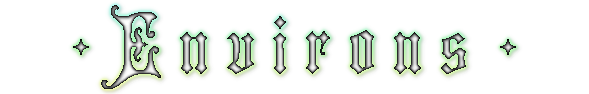
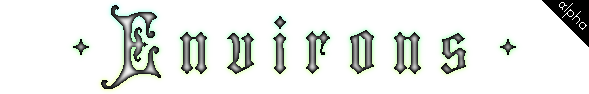
Alpha1

diff --git a/src/main/java/com/environs/listeners/RenderGuiOverlayEventListener.java b/src/main/java/com/environs/listeners/RenderGuiOverlayEventListener.java
@@ -79,7 +79,7 @@ public final class RenderGuiOverlayEventListener {
 				event.getGuiGraphics().pose().pushPose();
 				Matrix4f matrix4f = event.getGuiGraphics().pose().last().pose();
 				matrix4f.scale(2.5F, 2.5F, 2.5F);
-				minecraft.font.drawInBatch(ChatFormatting.UNDERLINE + dimensionName, dimensionNamePosX, dimensionNamePosY, EnvironsConfigClient.DIMENSION_COLOR.get() | (int) (dimensionAlpha * 255.0F) << 24, true, matrix4f, irendertypebuffer$impl, Font.DisplayMode.SEE_THROUGH, 0, 0);
+				minecraft.font.drawInBatch(EnvironsConfigClient.UNDERLINE.get() ? ChatFormatting.UNDERLINE + dimensionName : dimensionName, dimensionNamePosX, dimensionNamePosY, EnvironsConfigClient.DIMENSION_COLOR.get() | (int) (dimensionAlpha * 255.0F) << 24, EnvironsConfigClient.SHADOW.get(), matrix4f, irendertypebuffer$impl, Font.DisplayMode.SEE_THROUGH, 0, 0);
 				event.getGuiGraphics().pose().popPose();
 			}
 
@@ -87,15 +87,15 @@ public final class RenderGuiOverlayEventListener {
 				event.getGuiGraphics().pose().pushPose();
 				Matrix4f matrix4f = event.getGuiGraphics().pose().last().pose();
 				matrix4f.scale(2.0F, 2.0F, 2.0F);
-				minecraft.font.drawInBatch(ChatFormatting.UNDERLINE + biomeName, biomeNamePosX, biomeNamePosY, EnvironsConfigClient.BIOME_COLOR.get() | (int) (biomeAlpha * 255.0F) << 24, true, matrix4f, irendertypebuffer$impl, Font.DisplayMode.SEE_THROUGH, 0, 0);
+				minecraft.font.drawInBatch(EnvironsConfigClient.UNDERLINE.get() ? ChatFormatting.UNDERLINE + biomeName : biomeName, biomeNamePosX, biomeNamePosY, EnvironsConfigClient.BIOME_COLOR.get() | (int) (biomeAlpha * 255.0F) << 24, EnvironsConfigClient.SHADOW.get(), matrix4f, irendertypebuffer$impl, Font.DisplayMode.SEE_THROUGH, 0, 0);
 				event.getGuiGraphics().pose().popPose();
 			}
 
-			if (structureAlpha > 0.015) {
+			if (structureAlpha > 0.015 && structureName != null) {
 				event.getGuiGraphics().pose().pushPose();
 				Matrix4f matrix4f = event.getGuiGraphics().pose().last().pose();
 				matrix4f.scale(1.5F, 1.5F, 1.5F);
-				minecraft.font.drawInBatch(ChatFormatting.UNDERLINE + structureName, structureNamePosX, structurenamePosY, EnvironsConfigClient.STRUCTURE_COLOR.get() | (int) (structureAlpha * 255.0F) << 24, true, matrix4f, irendertypebuffer$impl, Font.DisplayMode.SEE_THROUGH, 0, 0);
+				minecraft.font.drawInBatch(EnvironsConfigClient.UNDERLINE.get() ? ChatFormatting.UNDERLINE + structureName : structureName, structureNamePosX, structurenamePosY, EnvironsConfigClient.STRUCTURE_COLOR.get() | (int) (structureAlpha * 255.0F) << 24, EnvironsConfigClient.SHADOW.get(), matrix4f, irendertypebuffer$impl, Font.DisplayMode.SEE_THROUGH, 0, 0);
 				event.getGuiGraphics().pose().popPose();
 			}
 		}
@@ -103,7 +103,7 @@ public final class RenderGuiOverlayEventListener {
 
 	public static void triggerDimensionTitleCard(String dimension) {
 		Minecraft minecraft = Minecraft.getInstance();
-		if (minecraft.level.getGameTime() - fadeDimensionTimer > 120) {
+		if (minecraft.level.getGameTime() - fadeDimensionTimer > 120 || fadeDimensionTimer == 0) {
 			dimensionName = dimension;
 			fadeDimensionTimer = minecraft.level.getGameTime();
 		}
@@ -111,7 +111,7 @@ public final class RenderGuiOverlayEventListener {
 
 	public static void triggerBiomeTitleCard(String biome) {
 		Minecraft minecraft = Minecraft.getInstance();
-		if (minecraft.level.getGameTime() - fadeBiomeTimer > 120) {
+		if (minecraft.level.getGameTime() - fadeBiomeTimer > 120 || fadeBiomeTimer == 0) {
 			biomeName = biome;
 			fadeBiomeTimer = minecraft.level.getGameTime();
 		}
@@ -119,7 +119,7 @@ public final class RenderGuiOverlayEventListener {
 
 	public static void triggerStructureTitleCard(String structure) {
 		Minecraft minecraft = Minecraft.getInstance();
-		if (minecraft.level.getGameTime() - fadeStructureTimer > 120) {
+		if (minecraft.level.getGameTime() - fadeStructureTimer > 120 || fadeStructureTimer == 0) {
 			structureName = structure;
 			fadeStructureTimer = minecraft.level.getGameTime();
 		}

diff --git a/src/main/java/com/environs/setup/config/EnvironsConfigClient.java b/src/main/java/com/environs/setup/config/EnvironsConfigClient.java
@@ -21,6 +21,9 @@ public final class EnvironsConfigClient {
 	public static final ForgeConfigSpec.ConfigValue<Integer> BIOME_COLOR;
 	public static final ForgeConfigSpec.ConfigValue<Integer> STRUCTURE_COLOR;
 
+	public static final ForgeConfigSpec.ConfigValue<Boolean> UNDERLINE;
+	public static final ForgeConfigSpec.ConfigValue<Boolean> SHADOW;
+
 	static {
 		BUILDER.comment("ENVIRONS CLIENT CONFIG\n");
 
@@ -40,9 +43,14 @@ public final class EnvironsConfigClient {
 		BUILDER.pop();
 
 		BUILDER.push("COLOR");
-		DIMENSION_COLOR = BUILDER.comment("hex color code").defineInRange("Dimension", 0xAAFFFF, 0, 16777215);
-		BIOME_COLOR = BUILDER.comment("hex color code").defineInRange("Biome", 0xAAFFAA, 0, 16777215);
-		STRUCTURE_COLOR = BUILDER.comment("hex color code").defineInRange("Structure", 0xFFFFAA, 0, 16777215);
+		DIMENSION_COLOR = BUILDER.comment("hex or RGBA color code").defineInRange("Dimension", 0xAAFFFF, 0, 16777215);
+		BIOME_COLOR = BUILDER.comment("hex or RGBA color code").defineInRange("Biome", 0xAAFFAA, 0, 16777215);
+		STRUCTURE_COLOR = BUILDER.comment("hex or RGBA color code").defineInRange("Structure", 0xFFFFAA, 0, 16777215);
+		BUILDER.pop();
+
+		BUILDER.push("STYLE");
+		UNDERLINE = BUILDER.comment("show title cards with underline").define("Underline", true);
+		SHADOW = BUILDER.comment("show title cards with shadow").define("Shadow", true);
 		BUILDER.pop();
 
 		CLIENT_SPEC = BUILDER.build();
